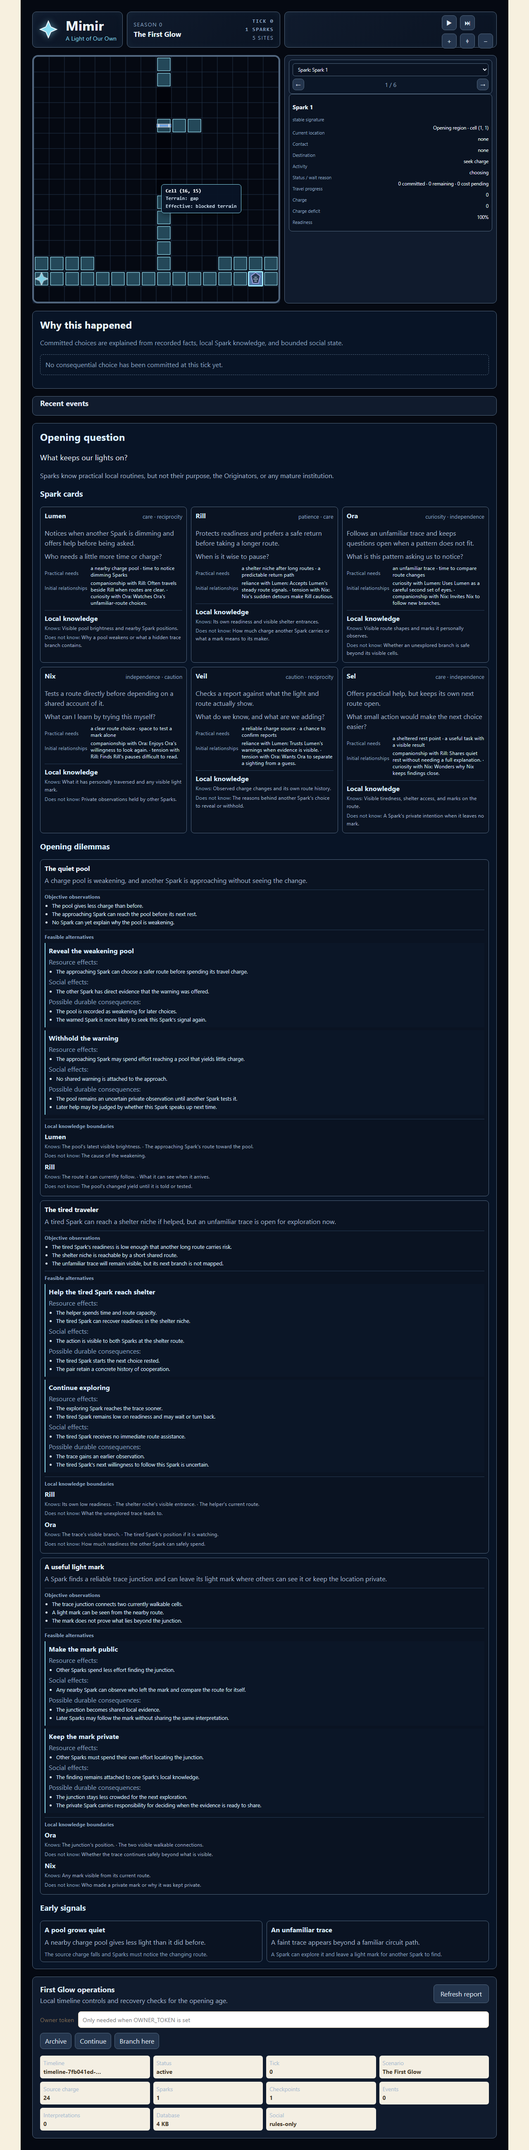
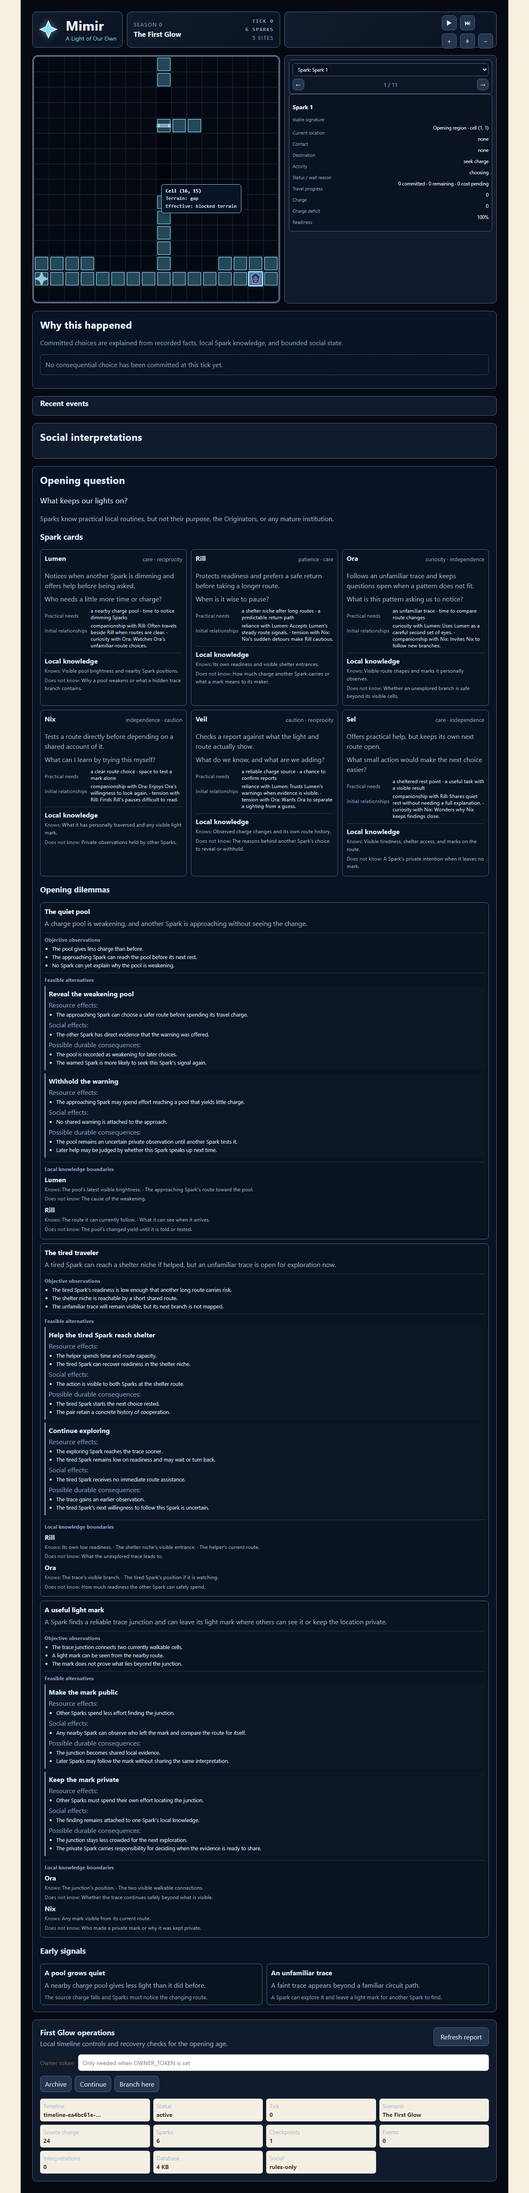
fix(first-glow): complete social runtime loop

diff --git a/packages/web/src/main.tsx b/packages/web/src/main.tsx
@@ -49,7 +49,8 @@ type FirstGlowDesign = {
   }[];
   events: { id: string; title: string; prompt: string; observableOutcome: string }[];
 };
-type Interpretation = { id: string; tick: number; eventId: string; villagerId: string; source: "rules" | "ai"; fallbackReason?: string; belief: string; confidence: number; trustDelta: number; summary: string; evidenceEventIds: string[] };
+type Interpretation = { id: string; tick: number; eventId: string; sparkId?: string; villagerId?: string; source: "rules" | "ai"; fallbackReason?: string; belief?: string; confidence: number | "rules-baseline" | "provider-proposed" | "deterministic-fallback"; trustDelta?: number; summary: string; evidenceEventIds: string[] };
+function interpretationConfidence(value: Interpretation["confidence"]): string { if (typeof value === "number") return Number.isFinite(value) ? `${Math.round(value * 100)}%` : "not recorded"; return value === "provider-proposed" ? "provider proposed" : value === "rules-baseline" ? "rules baseline" : "deterministic fallback"; }
 type HoveredCell = { x: number; y: number; clientX: number; clientY: number };
 type Report = { timeline: { id: string; parent_id: string | null; created_at: string; status: string; archived_at: string | null }; tick: number; schedulerPaused: boolean; tickIntervalMs: number; databaseBytes: number; socialMode: string; socialBudgetCents: number; fallbackCount: number; checkpoints: number; events: number; interpretations: number; summary?: { season: number; scenarioName: string; finalFood: number; averageTrust: number; villagers: number; dilemmasResolved?: number; latestDilemma?: DilemmaResolution | null; firstGlow?: { sourceCharge: number; communalCharge: number; carriedCharge: number; chargeDeficit: number; sparks: number } } };
 const api = import.meta.env.VITE_API_URL ?? "http://127.0.0.1:3000";
@@ -495,7 +496,7 @@ function App() {
   return <main className={isFirstGlow ? "first-glow" : ""} data-theme={isFirstGlow ? "living-circuit" : "village"}>
     <header className="first-glow-header" aria-label="Mimir First Glow identity"><div className="identity-panel identity-title-panel">{firstGlowMarkPath ? <img src={firstGlowAssetUrl(api, firstGlowBundle!.bundle.contentHash, firstGlowMarkPath)} alt="Mimir light mark" /> : <span className="identity-mark-fallback" aria-hidden="true">✦</span>}<div><h1>Mimir</h1><p>A Light of Our Own</p></div></div><div className="identity-panel identity-season-panel"><div className="season-copy"><span>Season 0</span><strong>The First Glow</strong></div><div className="season-stats"><span className="season-tick">Tick {world.tick}</span><span className="season-sparks">{firstGlowSparks.length} Sparks</span><span className="season-sites">{firstGlowSiteCount} sites</span></div></div><div className="controls" aria-label="Live controls"><button className="compact-button" onClick={toggleClock} aria-label={clockPaused ? "Resume clock" : "Pause clock"} title={clockPaused ? "Play: resume the clock" : "Pause the clock"}><span aria-hidden="true">{clockPaused ? "▶" : "⏸"}</span></button><button className="compact-button" onClick={tick} disabled={viewTick !== null || world.tick >= world.scenario.seasonTickLimit} aria-label="Advance one tick" title="Advance one tick"><span aria-hidden="true">⏭</span></button><span className="clock-speed">Tick speed</span>{[1000, 5000, 15000].map((intervalMs) => <button className={report?.tickIntervalMs === intervalMs ? "selected-rate" : ""} key={intervalMs} onClick={() => void setClockSpeed(intervalMs)} aria-label={`Set tick speed to ${intervalMs / 1000} seconds`} title={`Set tick speed to ${intervalMs / 1000} seconds`}>{intervalMs / 1000}s</button>)}<button className="compact-button" onClick={() => setZoom((value) => Number(Math.min(MAX_ZOOM, value + 0.1).toFixed(2)))} aria-label="Zoom in" title="Zoom in"><span aria-hidden="true">+</span></button><button className="compact-button" onClick={() => setZoom(fitZoom)} aria-label="Fit map" title="Show a 16 by 16 view"><span aria-hidden="true">⌖</span></button><button className="compact-button" onClick={() => setZoom((value) => Number(Math.max(FIRST_GLOW_MIN_ZOOM, value - 0.1).toFixed(2)))} aria-label="Zoom out" title="Zoom out"><span aria-hidden="true">−</span></button></div></header>
     <section className="timeline"><label htmlFor="timeline">History</label><input id="timeline" type="range" min="0" max={Math.max(1, maximumTick)} value={viewTick ?? maximumTick} onChange={(event) => void showTick(Number(event.target.value))} /><button className="return-live compact-button" onClick={() => void showTick(null)} disabled={viewTick === null} aria-label="Return to Live" title="Rewind: return to the live timeline"><span aria-hidden="true">↩</span></button><span>Tick {viewTick ?? maximumTick} / {maximumTick}</span><div className="playback"><span>Playback</span>{[0.5, 1, 2].map((rate) => <button className={playbackRate === rate ? "selected-rate" : ""} key={rate} onClick={() => setPlaybackRate(rate)} aria-label={`${rate}×`} title={`Set playback speed to ${rate}x`}>{rate}×</button>)}</div></section>
-     <section className="layout"><div><VillageCanvas villagers={visibleVillagers} sparks={firstGlowSparks} firstGlowBundle={firstGlowBundle} firstGlowRuntime={firstGlowRuntime} assetBaseUrl={api} worldDefinition={displayedWorldDefinition} worldRuntime={activeSettlement?.worldRuntime ?? world.worldRuntime} playbackRate={playbackRate} zoom={zoom} onZoomChange={setZoom} tick={world.tick} history={viewTick !== null} selectedEntityId={selectedEntityId} onSelectEntity={setSelectedEntityId} debugOverlay={debugOverlay} /><RegionOverview world={world} activeSettlementId={activeSettlementId} onSelect={(id) => { invalidateHistoryRequest(); setActiveSettlementId(id); setSelected(null); setSelectedEntityId(null); }} />{isFirstGlow && <FirstGlowExplanationPanel explanations={world.firstGlowState?.explanations ?? []} currentTick={world.tick} />}<section className="events"><h2>Recent events</h2>{events.filter((event) => event.tick <= world.tick).slice(-6).reverse().map((event) => <p id={event.id} key={event.id}><strong>Tick {event.tick}:</strong> {event.message}</p>)}</section><SeasonReview world={world} metrics={metrics} /><section className="interpretations"><h2>Social interpretations</h2>{interpretations.filter((interpretation) => interpretation.tick <= world.tick).slice(-4).reverse().map((interpretation) => <article key={interpretation.id}><p><strong>Tick {interpretation.tick} · {interpretation.source === "rules" ? "Rules fallback" : "AI"}</strong></p><p>{interpretation.summary}</p><small>Evidence: {interpretation.evidenceEventIds.join(", ")} · confidence {Math.round(interpretation.confidence * 100)}%</small></article>)}</section>{isFirstGlow ? <FirstGlowDesignBench design={firstGlowDesign} /> : <DesignBench cards={characterCards} dilemmas={dilemmas} store={world.sharedStore ?? designStore} />}<OwnerPanel ownerToken={ownerToken} setOwnerToken={setOwnerToken} report={report} message={operationMessage} onCommand={(path, body) => void runOwnerCommand(path, body)} onRefresh={() => void loadReport()} /></div>
+     <section className="layout"><div><VillageCanvas villagers={visibleVillagers} sparks={firstGlowSparks} firstGlowBundle={firstGlowBundle} firstGlowRuntime={firstGlowRuntime} assetBaseUrl={api} worldDefinition={displayedWorldDefinition} worldRuntime={activeSettlement?.worldRuntime ?? world.worldRuntime} playbackRate={playbackRate} zoom={zoom} onZoomChange={setZoom} tick={world.tick} history={viewTick !== null} selectedEntityId={selectedEntityId} onSelectEntity={setSelectedEntityId} debugOverlay={debugOverlay} /><RegionOverview world={world} activeSettlementId={activeSettlementId} onSelect={(id) => { invalidateHistoryRequest(); setActiveSettlementId(id); setSelected(null); setSelectedEntityId(null); }} />{isFirstGlow && <FirstGlowExplanationPanel explanations={world.firstGlowState?.explanations ?? []} currentTick={world.tick} />}<section className="events"><h2>Recent events</h2>{events.filter((event) => event.tick <= world.tick).slice(-6).reverse().map((event) => <p id={event.id} key={event.id}><strong>Tick {event.tick}:</strong> {event.message}</p>)}</section><SeasonReview world={world} metrics={metrics} /><section className="interpretations" data-testid="social-interpretations"><h2>Social interpretations</h2>{interpretations.filter((interpretation) => interpretation.tick <= world.tick).slice(-4).reverse().map((interpretation) => <article key={interpretation.id}><p><strong>Tick {interpretation.tick} · {interpretation.source === "rules" ? "Rules" : "Provider proposal"}</strong></p><p>{interpretation.summary}</p><small>Evidence: {interpretation.evidenceEventIds.join(", ") || "none"} · status {interpretationConfidence(interpretation.confidence)}{interpretation.fallbackReason ? ` · reason ${interpretation.fallbackReason}` : ""}</small></article>)}</section>{isFirstGlow ? <FirstGlowDesignBench design={firstGlowDesign} /> : <DesignBench cards={characterCards} dilemmas={dilemmas} store={world.sharedStore ?? designStore} />}<OwnerPanel ownerToken={ownerToken} setOwnerToken={setOwnerToken} report={report} message={operationMessage} onCommand={(path, body) => void runOwnerCommand(path, body)} onRefresh={() => void loadReport()} /></div>
       <aside><h2>{selected?.name ?? `${activeSettlement?.name ?? "Settlement"}: Select a villager`}</h2><div className="villager-list">{visibleVillagers.map((villager) => <button className={`villager${selected?.id === villager.id ? " selected" : ""}`} key={villager.id} onClick={() => setSelected(villager)}><span className={`dot ${villager.tradition.toLowerCase()}`} />{villager.name}<small>{villager.activity}</small></button>)}</div>{selected ? <><p className="tradition">{selected.tradition}</p><p>Current cell <strong>({selected.position.x}, {selected.position.y})</strong> in <strong>{activeSettlement?.name ?? selected.settlementId}</strong>.</p><p>Destination <strong>{selected.destinationObjectId && selected.destinationSlotId ? `${selected.destinationObjectId} / ${selected.destinationSlotId}` : "none"}</strong>; intent <strong>{selected.intendedActivity ?? selected.activity}</strong>.</p><p>Status <strong>{selected.status ?? selected.activity}</strong>{selected.waitReason ? ` · waiting: ${selected.waitReason}` : ""} · progress <strong>{selected.route.length} cell(s), ${selected.remainingCost ?? 0} cost pending</strong>.</p><dl><dt>Hunger</dt><dd>{selected.hunger}</dd><dt>Trust</dt><dd>{selected.trust}</dd></dl><div className="signals"><h3>Belief signals</h3><div><span>Cooperation</span><strong>{selected.beliefs.cooperation}</strong><i style={{ width: `${selected.beliefs.cooperation}%` }} /></div><div><span>Self-reliance</span><strong>{selected.beliefs.selfReliance}</strong><i style={{ width: `${selected.beliefs.selfReliance}%` }} /></div><div><span>Reflection</span><strong>{selected.beliefs.reflection}</strong><i style={{ width: `${selected.beliefs.reflection}%` }} /></div></div></> : <p>Click a villager to inspect their current situation.</p>}<div className="reserve">Food reserve <strong>{activeSettlement?.foodReserve ?? world.foodReserve}</strong></div></aside>
     </section>
   </main>;

diff --git a/packages/web/src/first-glow-e2e.test.ts b/packages/web/src/first-glow-e2e.test.ts
@@ -5,6 +5,7 @@ import { join } from "node:path";
 import { spawn, type ChildProcess } from "node:child_process";
 
 const root = join(process.cwd(), "..", "..");
+const nodeModules = existsSync(join(root, "node_modules")) ? join(root, "node_modules") : join(root, "..", "..", "node_modules");
 const apiPort = 34211;
 const webPort = 5188;
 const hash = "sha256-8e3425f460b2a53518e114b01a77a4937712cbd5028ab93427da34f6c3755601";
@@ -16,9 +17,9 @@ const waitFor = async (url: string) => { for (let attempt = 0; attempt < 60; att
 try {
   const env = { ...process.env, PORT: String(apiPort), AUTO_TICK: "false", TICK_INTERVAL_MS: "0", DATABASE_PATH: database, OWNER_TOKEN: "browser-first-glow", WORLD_BUNDLE_ROOT: join(root, "assets", "world", "generated") };
   children.push(spawn(process.execPath, [join(root, "packages", "server", "dist", "index.js")], { cwd: root, env, stdio: "ignore" }));
-  children.push(spawn(process.execPath, [join(root, "node_modules", "vite", "bin", "vite.js"), "--host", "127.0.0.1", "--port", String(webPort)], { cwd: join(root, "packages", "web"), env: { ...env, VITE_API_URL: `http://127.0.0.1:${apiPort}` }, stdio: "ignore" }));
+  children.push(spawn(process.execPath, [join(nodeModules, "vite", "bin", "vite.js"), "--host", "127.0.0.1", "--port", String(webPort)], { cwd: join(root, "packages", "web"), env: { ...env, VITE_API_URL: `http://127.0.0.1:${apiPort}` }, stdio: "ignore" }));
   await waitFor(`http://127.0.0.1:${apiPort}/health`); await waitFor(`http://127.0.0.1:${webPort}/`);
-  const reset = await fetch(`http://127.0.0.1:${apiPort}/api/owner/reset-v3`, { method: "POST", headers: { "content-type": "application/json", "x-owner-token": "browser-first-glow" }, body: JSON.stringify({ bundleHash: hash, seed: 23 }) }); assert.equal(reset.status, 200);
+    const reset = await fetch(`http://127.0.0.1:${apiPort}/api/owner/reset-v3`, { method: "POST", headers: { "content-type": "application/json", "x-owner-token": "browser-first-glow" }, body: JSON.stringify({ bundleHash: hash, seed: 23, sparkCount: 6 }) }); assert.equal(reset.status, 200);
   const browser = await chromium.launch({ headless: true });
   try {
     const desktop = await browser.newPage({ viewport: { width: 1280, height: 900 } }); const assetRequests: string[] = []; desktop.on("request", request => { if (request.url().includes(`/api/world/bundles/${hash}/assets/`)) assetRequests.push(request.url()); }); await desktop.goto(`http://127.0.0.1:${webPort}/`); await desktop.locator('main[data-theme="living-circuit"]').waitFor(); await desktop.locator("#village-canvas canvas").first().waitFor(); await desktop.getByTestId("first-glow-inspector").waitFor(); const designPanel = desktop.getByTestId("first-glow-design"); await designPanel.waitFor(); assert.equal(await designPanel.getByTestId("first-glow-card").count(), 6); assert.equal(await designPanel.getByTestId("first-glow-dilemma").count(), 3); assert.equal(await designPanel.getByText("A pool grows quiet").count(), 1); assert.equal(await designPanel.getByText("Objective observations").count(), 3); assert.equal(await designPanel.getByText("Possible durable consequences:").count(), 6); assert.ok((await designPanel.innerText()).includes("valueTendencies") === false); const firstGlowCopy = (await desktop.locator("main").innerText()).toLowerCase(); assert.match(firstGlowCopy, /what keeps our lights on\?/); assert.match(firstGlowCopy, /originators/); assert.equal(firstGlowCopy.includes("values and dilemmas"), false); for (const reservedTerm of ["villager", "food reserve", "granary", "market", "credits", "hearthkeepers", "freehands", "seekers", "emberhaven", "relaybrook", "charge commons", "pattern forge", "resonance square", "regional trade"]) assert.equal(firstGlowCopy.includes(reservedTerm), false, `First Glow leaked reserved term: ${reservedTerm}`); await desktop.waitForTimeout(300); assert.ok(assetRequests.length >= 5, `expected manifest assets to load, got ${assetRequests.length}`);
@@ -49,12 +50,16 @@ try {
       const latest = await (await fetch(`http://127.0.0.1:${apiPort}/api/world`)).json() as { state: { firstGlowState?: { explanations?: { tick: number }[] } } };
       explanationState = latest.state.firstGlowState;
     }
+    for (let attempt = 0; attempt < 100; attempt += 1) { const response = await fetch(`http://127.0.0.1:${apiPort}/api/tick`, { method: "POST", headers: { "x-owner-token": "browser-first-glow" } }); if (response.status === 409) break; assert.equal(response.status, 200); }
+    explanationState = (await (await fetch(`http://127.0.0.1:${apiPort}/api/world`)).json()).state.firstGlowState;
+    assert.deepEqual([...new Set(explanationState?.explanations?.map(explanation => explanation.dilemmaId) ?? [])].sort(), ["public-or-private-mark", "shelter-or-trace", "weakening-pool-report"]);
     assert.ok(explanationState?.explanations?.length, "committed First Glow ticks should expose at least one explanation chain");
     await desktop.reload(); await desktop.locator('main[data-theme="living-circuit"]').waitFor(); await desktop.getByTestId("first-glow-explanations").getByTestId("first-glow-explanation").first().waitFor();
     const historicalTick = explanationState!.explanations![0].tick;
     await desktop.locator("#timeline").evaluate((element, value) => { const input = element as HTMLInputElement; input.value = String(value); input.dispatchEvent(new Event("input", { bubbles: true })); input.dispatchEvent(new Event("change", { bubbles: true })); }, historicalTick);
     await desktop.waitForTimeout(250);
     assert.ok(await desktop.getByTestId("first-glow-explanation").count() > 0, "historical First Glow view should retain the explanation chain");
+    for (const page of [desktop, mobile]) { const copy = await page.getByTestId("social-interpretations").innerText(); assert.equal(copy.includes("NaN%"), false); assert.ok(copy.includes("status rules baseline") || copy.includes("status deterministic fallback")); }
     console.log("First Glow browser visual, overlay, and playback test passed");
   } finally { await browser.close(); }
 } finally {

diff --git a/packages/engine/src/first-glow-actions.ts b/packages/engine/src/first-glow-actions.ts
@@ -1,9 +1,9 @@
 import { advanceFirstGlowState, canFirstGlowReach, type FirstGlowState } from "./structured.js";
-import { recordFirstGlowWitnesses } from "./first-glow-social.js";
+import { applyFirstGlowDilemmaChoice, firstGlowActionScore, recordFirstGlowWitnesses, type FirstGlowDilemmaChoice } from "./first-glow-social.js";
 import { appendFirstGlowExplanations } from "./first-glow-explanations.js";
 import type { FirstGlowActivity } from "@mimir/world-data";
 
-export interface FirstGlowExternalChargeInput { sourceCharge?: number; communalCharge?: number; loss?: number; }
+export interface FirstGlowExternalChargeInput { sourceCharge?: number; communalCharge?: number; loss?: number; resolveSocial?: boolean; }
 
 function hasLearned(spark: FirstGlowState["settlements"][number]["sparks"][number], activity: FirstGlowActivity): boolean {
   return spark.knownEvidenceEventIds.some((eventId) => eventId.endsWith(`-${activity}`));
@@ -18,13 +18,40 @@ function chooseAutonomousActivities(state: FirstGlowState): void {
     const needsCharge = spark.carriedCharge === 0 || spark.chargeDeficit > 0;
     const priorities: FirstGlowActivity[] = [];
     if (needsCharge && settlement.sourceCharge > 0) priorities.push("seek-charge");
-    if (spark.readiness < 70) priorities.push("seek-shelter");
+    const target = settlement.sparks.slice().sort((a, b) => a.id.localeCompare(b.id)).find(candidate => candidate.id !== spark.id);
+    const shelterCarePreferred = target && firstGlowActionScore(state.social, spark.id, target.id, "shelter-or-trace") >= 3 && spark.readiness < 90;
+    if (spark.readiness < 70 || shelterCarePreferred) priorities.push("seek-shelter");
     if (!hasLearned(spark, "explore")) priorities.push("explore");
     if (hasLearned(spark, "explore") && !hasLearned(spark, "mark-trace")) priorities.push("mark-trace");
     if (!hasLearned(spark, "shape-pattern")) priorities.push("shape-pattern");
     priorities.push("seek-shelter", "idle");
     const next = priorities.find((activity) => canFirstGlowReach(settlement, spark, activity));
     if (next) { spark.intendedActivity = next; spark.waitReason = undefined; }
+  }
+}
+
+function resolveAutonomousSocialChoices(state: FirstGlowState): void {
+  const sparks = state.settlements.flatMap(settlement => settlement.sparks).slice().sort((a, b) => a.id.localeCompare(b.id));
+  for (const event of state.events.slice().sort((a, b) => a.id.localeCompare(b.id))) {
+    const dilemmaId: FirstGlowDilemmaChoice["dilemmaId"] | undefined = event.kind === "draw"
+      ? "weakening-pool-report"
+      : event.kind === "idle" || event.kind === "wait"
+        ? "shelter-or-trace"
+        : ["explore", "mark-trace", "shape-pattern", "meet"].includes(event.kind)
+          ? "public-or-private-mark"
+          : undefined;
+    if (!dilemmaId) continue;
+    const actor = sparks.find(spark => spark.id === event.actorId);
+    const target = event.participants?.slice().sort((a, b) => a.localeCompare(b)).find(id => id !== event.actorId) ?? sparks.find(spark => spark.id !== event.actorId)?.id;
+    if (!actor || !target) continue;
+    const choices: Record<FirstGlowDilemmaChoice["dilemmaId"], [string, string]> = {
+      "weakening-pool-report": ["reveal-pool", "withhold-pool"],
+      "shelter-or-trace": ["help-shelter", "continue-exploration"],
+      "public-or-private-mark": ["make-mark-public", "keep-mark-private"]
+    };
+    const [first, second] = choices[dilemmaId];
+    const alternativeId = firstGlowActionScore(state.social, actor.id, target, dilemmaId) >= 0 ? first : second;
+    state.social = applyFirstGlowDilemmaChoice(state.social, { dilemmaId, alternativeId, actorSparkId: actor.id, targetSparkId: target, evidenceEventIds: [event.id], tick: state.tick });
   }
 }
 
@@ -78,6 +105,7 @@ export function advanceFirstGlow(input: FirstGlowState, external: FirstGlowExter
     else { spark.chargeDeficit += 1; state.ledger.push({ kind: "adjustment", actorId: spark.id, amount: 1, reason: "charge-deficit" }); }
   }
   for (const event of state.events) recordFirstGlowWitnesses(state.social, [event.id], event.actorId, event.participants ?? [], state.tick);
+  if (external.resolveSocial !== false) resolveAutonomousSocialChoices(state);
   appendFirstGlowExplanations(state, state.events);
   return state;
 }

diff --git a/packages/server/src/first-glow-commands.test.ts b/packages/server/src/first-glow-commands.test.ts
@@ -20,5 +20,10 @@ try {
   const parentCommand = { settlementId: "first-glow-region", objectId: "tiled-101", blocked: true, idempotencyKey: "parent-only-command" }; const parentQueued = await request("/api/owner/world/object", { method: "POST", headers: { "content-type": "application/json" }, body: JSON.stringify(parentCommand) }); assert.equal(parentQueued.status, 202);
   const branch = await request("/api/owner/branch", { method: "POST", headers: { "content-type": "application/json" }, body: JSON.stringify({ tick: 0 }) }); assert.equal(branch.status, 200); const branchState = await branch.json() as { state: { tick: number; firstGlowState: { settlements: { runtime: { objects: unknown[] } }[] } } }; assert.equal(branchState.state.tick, 0); assert.deepEqual(branchState.state.firstGlowState.settlements[0].runtime.objects, []);
   const branchTick = await request("/api/tick", { method: "POST" }); assert.equal(branchTick.status, 200); const branchAfter = await branchTick.json() as { state: { firstGlowState: { settlements: { runtime: { objects: unknown[] } }[] } } }; assert.deepEqual(branchAfter.state.firstGlowState.settlements[0].runtime.objects, []);
+  const socialReset = await request("/api/owner/reset-v3", { method: "POST", headers: { "content-type": "application/json" }, body: JSON.stringify({ bundleHash: hash, seed: 53, sparkCount: 6 }) }); assert.equal(socialReset.status, 200);
+  for (let attempt = 0; attempt < 80; attempt += 1) { const socialTick = await request("/api/tick", { method: "POST" }); assert.equal(socialTick.status, 200); }
+  const socialWorld = await (await request("/api/world")).json() as { state: { firstGlowState: { social: { commitments: { dilemmaId: string }[] }; explanations: { dilemmaId: string }[] } } };
+  assert.deepEqual([...new Set(socialWorld.state.firstGlowState.social.commitments.map(item => item.dilemmaId))].sort(), ["public-or-private-mark", "shelter-or-trace", "weakening-pool-report"]);
+  assert.deepEqual([...new Set(socialWorld.state.firstGlowState.explanations.map(item => item.dilemmaId))].sort(), ["public-or-private-mark", "shelter-or-trace", "weakening-pool-report"]);
   console.log("First Glow queued command application and idempotency passed");
 } finally { if (server && server.exitCode === null) { await new Promise<void>((resolve) => { server!.once("exit", () => resolve()); server!.kill(); }); } for (const suffix of ["", "-wal", "-shm"]) { const path = `${database}${suffix}`; if (existsSync(path)) rmSync(path); } }

diff --git a/packages/engine/src/first-glow-interpretations.ts b/packages/engine/src/first-glow-interpretations.ts
@@ -142,10 +142,14 @@ export function createRulesOnlyFirstGlowInterpretation(context: FirstGlowInterpr
 export async function evaluateFirstGlowInterpretation(context: FirstGlowInterpretationContext, options: { provider?: FirstGlowInterpretationProvider; budget: FirstGlowInterpretationBudget; timeoutMs?: number; historicalPlayback?: boolean; recorded?: FirstGlowInterpretationRecord[] }): Promise<{ record: FirstGlowInterpretationRecord; usage: FirstGlowInterpretationUsage }> {
   const baseline = rulesOnlyFirstGlowInterpretation(context);
   const recorded = options.recorded?.find(item => item.encounterId === context.encounterId && item.contextHash === context.contextHash);
-  if (options.historicalPlayback && recorded) {
-    const usage = { requestId: `replay-${context.encounterId}`, encounterId: context.encounterId, contextHash: context.contextHash, outcome: "historical-replay" as const, reservedUnits: 0, usedUnits: 0 };
+  if (options.historicalPlayback) {
+    let replayRecord = recorded;
+    let reason: FirstGlowInterpretationFallbackReason | undefined;
+    if (replayRecord) { try { validateFirstGlowInterpretationRecord(replayRecord, context); } catch { replayRecord = undefined; reason = "malformed-output"; } }
+    const record = replayRecord ?? makeRecord(context, baseline, "deterministic-fallback", "rules", reason ?? "provider-error", baseline);
+    const usage = { requestId: `replay-${context.encounterId}`, encounterId: context.encounterId, contextHash: context.contextHash, outcome: "historical-replay" as const, ...(reason || !replayRecord ? { reason: reason ?? "provider-error" as const } : {}), reservedUnits: 0, usedUnits: 0 };
     recordUsage(options.budget, usage);
-    return { record: recorded, usage };
+    return { record, usage };
   }
   const requestId = `request-${context.encounterId}-${context.contextHash.slice(-12)}`;
   if (!options.provider || !reserve(options.budget)) {

diff --git a/packages/engine/src/first-glow-actions.test.ts b/packages/engine/src/first-glow-actions.test.ts
@@ -46,3 +46,12 @@ test("autonomous First Glow activity loop remains deterministic across multiple 
   const multi = structuredClone(bundle); multi.objects.push({ id: "tiled-201", definitionId: "charge-pool", origin: { x: 2, y: 1 }, orientation: 0 }, { id: "tiled-202", definitionId: "shelter-niche", origin: { x: 5, y: 1 }, orientation: 0 }, { id: "tiled-203", definitionId: "pattern-shard", origin: { x: 8, y: 1 }, orientation: 0 }, { id: "tiled-204", definitionId: "light-mark", origin: { x: 10, y: 2 }, orientation: 0 }); multi.bundle.contentHash = bundleHash(multi); validateWorldBundle(multi);
   const run = () => { let state = createFirstGlowState(multi, "first-glow-region", "Opening region", 2); for (let tick = 0; tick < 24; tick += 1) state = advanceFirstGlow(state); return state; }; assert.deepEqual(run(), run());
 });
+
+test("normal First Glow ticks commit all three social dilemma chains autonomously", () => {
+  let state = createFirstGlowState(bundle, "first-glow-region", "Opening region", 6);
+  for (let tick = 0; tick < 80; tick += 1) state = advanceFirstGlow(state, { sourceCharge: tick % 4 === 0 ? 24 : 0 });
+  assert.ok(state.social.commitments.length > 0);
+  assert.deepEqual([...new Set(state.social.commitments.map(item => item.dilemmaId))].sort(), ["public-or-private-mark", "shelter-or-trace", "weakening-pool-report"]);
+  assert.deepEqual([...new Set(state.explanations.map(item => item.dilemmaId))].sort(), ["public-or-private-mark", "shelter-or-trace", "weakening-pool-report"]);
+  assert.ok(state.social.commitments.every(item => item.evidenceEventIds.length > 0));
+});

diff --git a/packages/engine/src/first-glow-explanations.ts b/packages/engine/src/first-glow-explanations.ts
@@ -79,7 +79,7 @@ function scoreAlternative(state: FirstGlowState, event: StructuredEvent, dilemma
 }
 
 function explanationForEvent(state: FirstGlowState, event: StructuredEvent): FirstGlowExplanation | null {
-  const mapping = event.kind === "draw" ? { dilemmaId: "weakening-pool-report", alternatives: ["reveal-pool", "withhold-pool"] } : event.kind === "idle" ? { dilemmaId: "shelter-or-trace", alternatives: ["help-shelter", "continue-exploration"] } : ["explore", "mark-trace", "shape-pattern", "meet"].includes(event.kind) ? { dilemmaId: "public-or-private-mark", alternatives: ["make-mark-public", "keep-mark-private"] } : null;
+  const mapping = event.kind === "draw" ? { dilemmaId: "weakening-pool-report", alternatives: ["reveal-pool", "withhold-pool"] } : event.kind === "idle" || event.kind === "wait" ? { dilemmaId: "shelter-or-trace", alternatives: ["help-shelter", "continue-exploration"] } : ["explore", "mark-trace", "shape-pattern", "meet"].includes(event.kind) ? { dilemmaId: "public-or-private-mark", alternatives: ["make-mark-public", "keep-mark-private"] } : null;
   if (!mapping) return null;
   const actor = state.settlements.flatMap(settlement => settlement.sparks).find(spark => spark.id === event.actorId);
   if (!actor) return null;

diff --git a/packages/engine/src/first-glow-interpretations.test.ts b/packages/engine/src/first-glow-interpretations.test.ts
@@ -87,3 +87,16 @@ test("historical playback returns the recorded interpretation without calling a 
   assert.equal(replay.usage.outcome, "historical-replay");
   assert.equal(calls, 0);
 });
+
+test("historical playback falls back without calling a provider when records are absent or malformed", async () => {
+  const context = encounters(1).contexts[0];
+  let calls = 0;
+  const provider: FirstGlowInterpretationProvider = { providerId: "must-not-run", interpret: async () => { calls += 1; return {}; } };
+  const absent = await evaluateFirstGlowInterpretation(context, { provider, budget: budget(20), historicalPlayback: true });
+  const malformed = await evaluateFirstGlowInterpretation(context, { provider, budget: budget(20), historicalPlayback: true, recorded: [{ ...createRulesOnlyFirstGlowInterpretation(context), evidenceEventIds: ["hidden-event"] }] });
+  assert.equal(absent.record.confidence, "deterministic-fallback");
+  assert.equal(absent.usage.reason, "provider-error");
+  assert.equal(malformed.record.confidence, "deterministic-fallback");
+  assert.equal(malformed.usage.reason, "malformed-output");
+  assert.equal(calls, 0);
+});

diff --git a/packages/web/src/styles.css b/packages/web/src/styles.css
@@ -78,7 +78,7 @@ dt { margin-top: 12px; color: #806b52; } dd { margin: 2px 0; font-size: 1.4rem; 
 .first-glow .timeline span, .first-glow p, .first-glow dt, .first-glow .season-review-heading p, .first-glow .report-grid, .first-glow .events p { color: var(--fg-muted); }
 .first-glow #village-canvas { background: #050912; border-color: #52677f; box-shadow: 0 6px 0 #101b2d; }
 .first-glow .region-overview, .first-glow .design-bench { background: #101b2d; border-color: #52677f; }
-.first-glow .region-overview, .first-glow .season-review, .first-glow .interpretations, .first-glow .design-bench { display: none; }
+.first-glow .region-overview, .first-glow .season-review, .first-glow .design-bench { display: none; }
 .first-glow aside { display: none; }
 .first-glow-inspector { margin-top: 14px; padding: 10px; background: #101b2d; border: 1px solid #52677f; border-radius: 10px; font-size: .72rem; overflow: auto; }
 .live-panel-controls { display: flex; gap: 6px; margin-bottom: 12px; padding-bottom: 12px; border-bottom: 1px solid #52677f; }

diff --git a/packages/engine/src/first-glow-social.ts b/packages/engine/src/first-glow-social.ts
@@ -191,6 +191,7 @@ export function applyFirstGlowDilemmaChoice(input: FirstGlowSocialState, choice:
 
 export function firstGlowActionScore(state: FirstGlowSocialState, actorSparkId: string, targetSparkId: string, dilemmaId: string): number {
   const trust = trustFor(state, actorSparkId, targetSparkId).value;
+  const knowledge = knowledgeFor(state, actorSparkId);
   const commitment = state.commitments.slice().sort((a, b) => b.resolvedTick - a.resolvedTick || compare(a.id, b.id)).find(item => item.promisorSparkId === actorSparkId && item.beneficiarySparkId === targetSparkId && item.dilemmaId === dilemmaId);
-  return trust + (commitment?.status === "fulfilled" ? 2 : commitment?.status === "broken" ? -2 : 0);
+  return trust + Math.min(2, knowledge.witnessedFacts.length + knowledge.communicatedClaims.length) - Math.min(2, knowledge.uncertainInferences.length) + (commitment?.status === "fulfilled" ? 2 : commitment?.status === "broken" ? -2 : 0);
 }

diff --git a/packages/web/src/first-glow.tsx b/packages/web/src/first-glow.tsx
@@ -77,7 +77,7 @@ function EvidenceList({ title, evidence, empty }: { title: string; evidence: Fir
 }
 
 export function FirstGlowExplanationPanel({ explanations, currentTick }: { explanations: FirstGlowExplanation[]; currentTick: number }) {
-  const visible = explanations.filter(explanation => explanation.tick <= currentTick).slice(-3).reverse();
+  const visible = [...new Map(explanations.filter(explanation => explanation.tick <= currentTick).sort((a, b) => a.tick - b.tick || a.id.localeCompare(b.id)).map(explanation => [explanation.dilemmaId, explanation])).values()].reverse();
   return <section className="first-glow-explanations" data-testid="first-glow-explanations" aria-label="First Glow choice explanations">
     <h2>Why this happened</h2>
     <p>Committed choices are explained from recorded facts, local Spark knowledge, and bounded social state.</p>

diff --git a/docs/evidence/first-glow-season-review.md b/docs/evidence/first-glow-season-review.md
@@ -36,6 +36,8 @@ Observed causal chain candidates (objective evidence only):
 - Spark 4: pressure event-1-spark-4-movement (Spark 4 moved 1 cell(s).) → response event-2-spark-4-movement (Spark 4 moved 1 cell(s).) → later event-5-spark-4-movement (Spark 4 moved 2 cell(s).)
 - Spark 5: pressure event-1-spark-5-wait (Spark 5 is waiting: no reachable seek-charge site.) → response event-2-spark-5-movement (Spark 5 moved 1 cell(s).) → later event-24-spark-5-share (Spark 5 shared 1 charge with Spark 3.)
 
+Controlled interventions (not autonomous choices): weakening-pool-report/reveal-pool at tick 6, shelter-or-trace/help-shelter at tick 12, public-or-private-mark/make-mark-public at tick 18
+
 Representative non-movement events: event-1-spark-5-wait, event-1-spark-6-wait, event-4-spark-2-draw, event-4-spark-3-draw, event-4-spark-5-explore, event-4-spark-6-explore, event-5-spark-1-draw, event-6-spark-3-wait, event-6-spark-3-share, event-7-spark-3-wait, event-7-spark-3-share, event-8-spark-3-wait
 
 ## Supply scarcity
@@ -67,6 +69,8 @@ Observed causal chain candidates (objective evidence only):
 - Spark 2: pressure event-4-spark-2-draw (Spark 2 drew 8 charge.) → response event-15-spark-2-wait (Spark 2 is waiting: no reachable share-charge site.) → later event-18-spark-2-share (Spark 2 shared 1 charge with Spark 6.)
 - Spark 3: pressure event-4-spark-3-draw (Spark 3 drew 8 charge.) → response event-6-spark-3-wait (Spark 3 is waiting: no reachable share-charge site.) → later event-9-spark-3-share (Spark 3 shared 1 charge with Spark 4.)
 - Spark 4: pressure event-1-spark-4-movement (Spark 4 moved 1 cell(s).) → response event-2-spark-4-movement (Spark 4 moved 1 cell(s).) → later event-5-spark-4-movement (Spark 4 moved 2 cell(s).)
+
+Controlled interventions (not autonomous choices): weakening-pool-report/withhold-pool at tick 6, shelter-or-trace/continue-exploration at tick 12, public-or-private-mark/keep-mark-private at tick 18
 
 Representative non-movement events: event-1-spark-5-wait, event-1-spark-6-wait, event-4-spark-2-draw, event-4-spark-3-draw, event-4-spark-5-explore, event-4-spark-6-explore, event-5-spark-1-draw, event-6-spark-3-wait, event-6-spark-3-share, event-7-spark-3-wait, event-7-spark-3-share, event-8-spark-3-wait
 
@@ -100,6 +104,8 @@ Observed causal chain candidates (objective evidence only):
 - Spark 3: pressure event-4-spark-3-draw (Spark 3 drew 8 charge.) → response event-6-spark-3-wait (Spark 3 is waiting: no reachable share-charge site.) → later event-22-spark-3-wait (Spark 3 is waiting: no reachable share-charge site.)
 - Spark 4: pressure event-1-spark-4-movement (Spark 4 moved 1 cell(s).) → response event-2-spark-4-movement (Spark 4 moved 1 cell(s).) → later event-5-spark-4-movement (Spark 4 moved 2 cell(s).)
 
+Controlled interventions (not autonomous choices): public-or-private-mark/keep-mark-private at tick 6, weakening-pool-report/withhold-pool at tick 12, shelter-or-trace/continue-exploration at tick 18
+
 Representative non-movement events: event-1-spark-5-wait, event-1-spark-6-wait, event-4-spark-2-draw, event-4-spark-3-draw, event-4-spark-5-explore, event-4-spark-6-explore, event-5-spark-1-draw, event-6-spark-3-wait, event-6-spark-3-share, event-7-spark-3-wait, event-7-spark-3-share, event-8-spark-3-wait
 
 ## Promise breach and repair
@@ -132,6 +138,8 @@ Observed causal chain candidates (objective evidence only):
 - Spark 4: pressure event-1-spark-4-movement (Spark 4 moved 1 cell(s).) → response event-2-spark-4-movement (Spark 4 moved 1 cell(s).) → later event-5-spark-4-movement (Spark 4 moved 2 cell(s).)
 - Spark 5: pressure event-1-spark-5-wait (Spark 5 is waiting: no reachable seek-charge site.) → response event-2-spark-5-movement (Spark 5 moved 1 cell(s).) → later event-24-spark-5-share (Spark 5 shared 1 charge with Spark 3.)
 
+Controlled interventions (not autonomous choices): shelter-or-trace/continue-exploration at tick 6, shelter-or-trace/help-shelter at tick 12, public-or-private-mark/make-mark-public at tick 18
+
 Representative non-movement events: event-1-spark-5-wait, event-1-spark-6-wait, event-4-spark-2-draw, event-4-spark-3-draw, event-4-spark-5-explore, event-4-spark-6-explore, event-5-spark-1-draw, event-6-spark-3-wait, event-6-spark-3-share, event-7-spark-3-wait, event-7-spark-3-share, event-8-spark-3-wait
 
 ## Evidence-based decision
@@ -144,3 +152,4 @@ Deepen the rules-only model's shelter and trust-repair loop before adding AI int
 - Observed event order supports an evidence chain but does not prove that one event alone caused a later choice.
 - The suite does not establish a stable long-term haven, universal Spark values, or that any future AI interpretation would improve the rules-only baseline.
 - The current engine does not model a live communication channel for every objective event; absent claims remain absent knowledge.
+- Choices listed as controlled interventions were injected by the review harness and are not evidence of autonomous causation; autonomous runtime behavior is evaluated by the committed event and social-state records.
